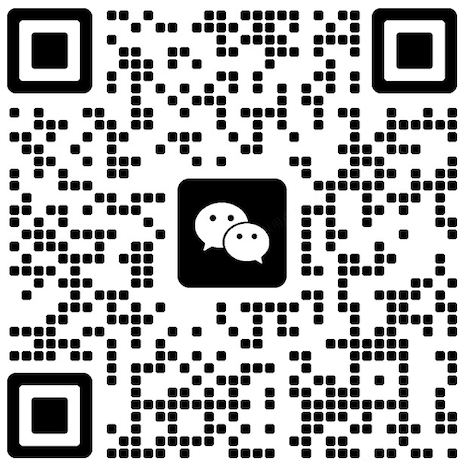
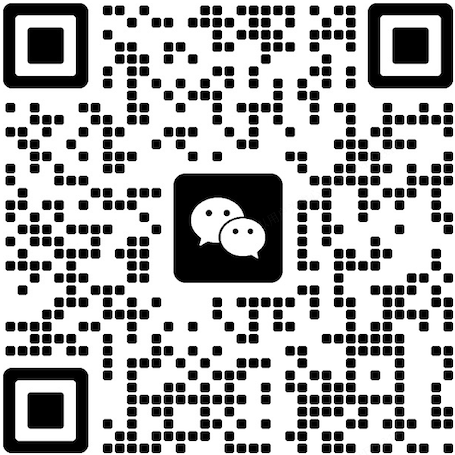
fix: tightly crop QR code and reduce surrounding padding

diff --git a/_includes/head.html b/_includes/head.html
@@ -62,7 +62,7 @@
 <link rel="dns-prefetch" href="{{ site.url }}">
 
 {% comment %}---------- Stylesheets ----------{% endcomment %}
-<link rel="stylesheet" href="/assets/css/style.css?v=11">
+<link rel="stylesheet" href="/assets/css/style.css?v=12">
 <link rel="stylesheet" href="/assets/css/icons.css?v=1">
 
 {% comment %}---------- JSON-LD: WebSite + SearchAction (all pages) ----------{% endcomment %}

diff --git a/assets/css/style.css b/assets/css/style.css
@@ -699,9 +699,9 @@ ul { list-style: none; }
 
 .contact__qr {
     margin-top: 8px;
-    padding: 16px;
+    padding: 6px;
     background: #fff;
-    border-radius: var(--radius-md);
+    border-radius: 8px;
     display: inline-block;
     box-shadow: 0 2px 12px rgba(0,0,0,.15);
 }
